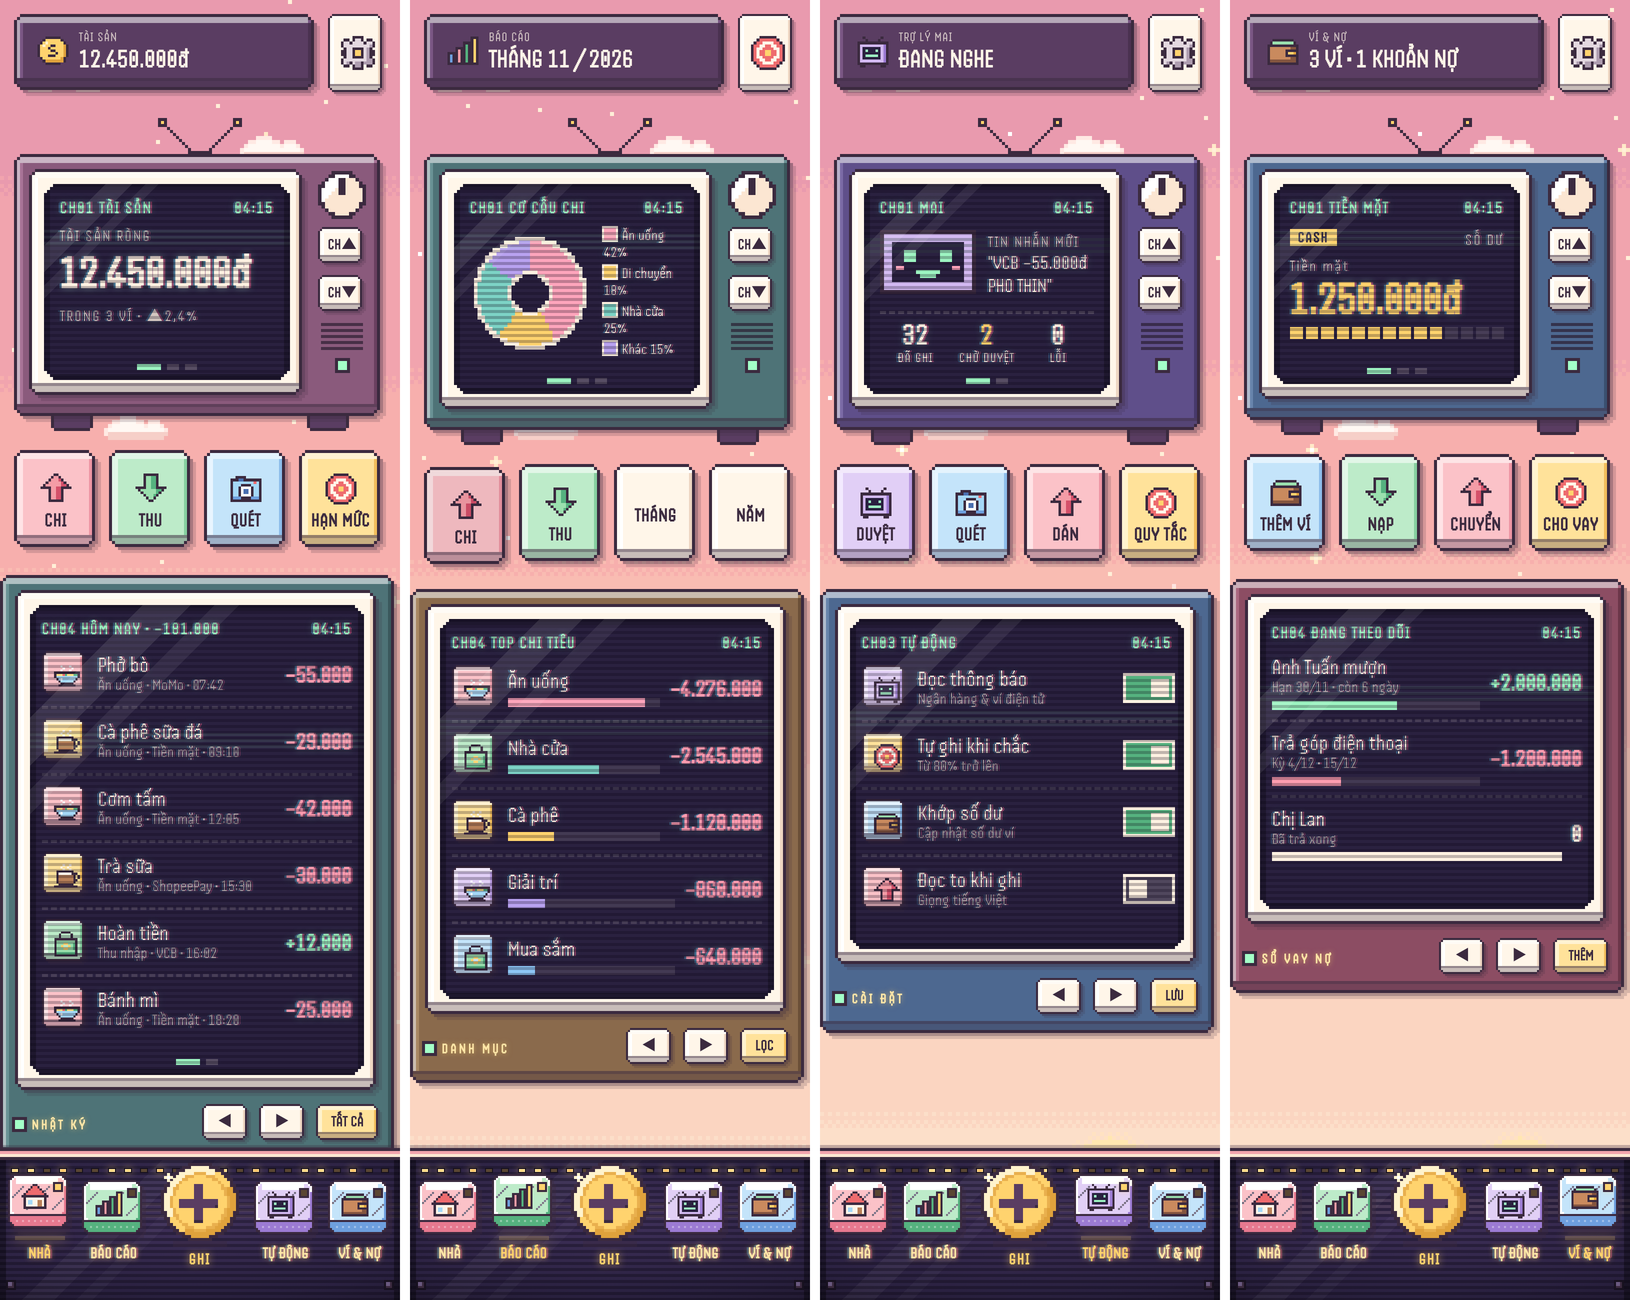
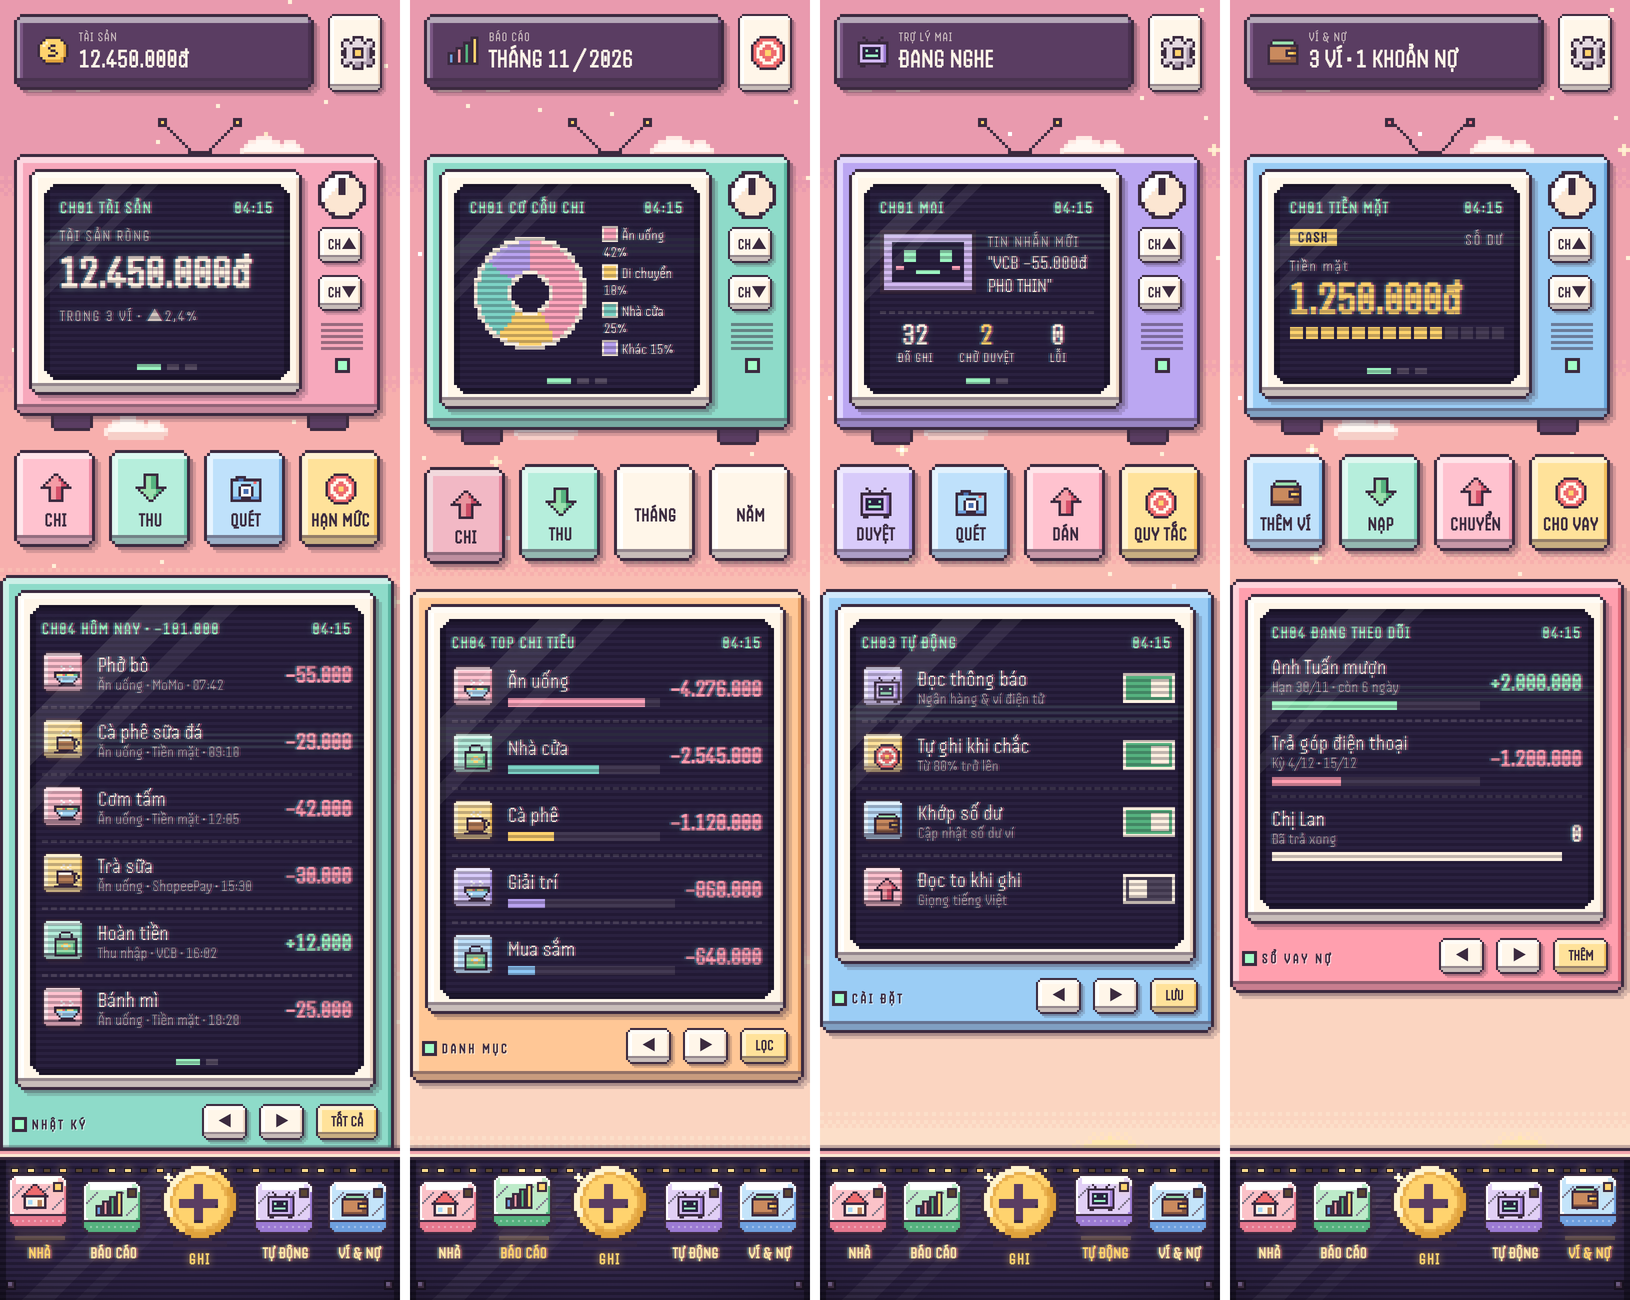
Pixel UI mockup: back to fresh pastel TV bodies, rebalanced to matching lightness
Claude-Session: https://claude.ai/code/session_01FJNvN5z83tJBi6FoMbuiCK

Changed region(s): [[0.0, 0.4308, 1.0, 0.8923], [0.0, 0.1231, 0.7362, 0.3385], [0.7669, 0.0923, 1.0, 0.3385]]

diff --git a/design/pixel-ui/mock.html b/design/pixel-ui/mock.html
@@ -53,7 +53,7 @@ body{font-family:Handjet,system-ui,sans-serif;color:var(--ink);font-size:20px;wi
 
 /* ---------- TV pixel (vẽ mới) ---------- */
 .tv{position:relative;padding-top:36px}.tv.noant{padding-top:0}.tv.wide{margin:0 -14px}.tv.wide .cnt{padding:14px 12px}
-.ctrl{display:flex;align-items:center;gap:8px;margin-top:8px}.ctrl .mini{width:auto;padding:0 6px}.ctrl .brand{flex:1;font-weight:800;letter-spacing:.2em;font-size:14px;color:#FFE7A8;text-shadow:0 0 6px rgba(255,211,110,.6)}
+.ctrl{display:flex;align-items:center;gap:8px;margin-top:8px}.ctrl .mini{width:auto;padding:0 6px}.ctrl .brand{flex:1;font-weight:800;letter-spacing:.2em;font-size:14px;color:#3B2A3F;text-shadow:1px 1px 0 rgba(255,255,255,.6)}
 .tvlist .it{display:flex;align-items:center;gap:10px;padding:9px 0;border-bottom:3px dashed rgba(255,242,226,.14)}.tvlist .it:last-child{border:0}.tvlist .tile{width:46px;height:46px}.tvlist .tile .ico.sm{width:30px;height:30px}.tvlist .t{flex:1;line-height:1.1;font-size:22px}.tvlist .t small{display:block;font-size:16px;opacity:.65}.tvlist .m{font-weight:800;font-size:24px}
 .it.new{animation:slidein .5s steps(5) both}@keyframes slidein{from{transform:translateX(40px);opacity:0}}
 .ant{position:absolute;left:50%;top:0;width:120px;height:42px;transform:translateX(-50%);image-rendering:pixelated}
@@ -92,7 +92,7 @@ body{font-family:Handjet,system-ui,sans-serif;color:var(--ink);font-size:20px;wi
 .side{display:flex;flex-direction:column;align-items:center;gap:8px;padding-top:2px}
 .knob{width:48px;height:48px;image-rendering:pixelated;animation:knob 6s steps(1) infinite}
 .mini{width:48px;text-align:center;font-weight:800;font-size:15px;padding:0;line-height:16px}
-.grille{width:42px;height:30px;background:repeating-linear-gradient(180deg,#2A1D30 0 3px,transparent 3px 6px);opacity:.7}
+.grille{width:42px;height:30px;background:repeating-linear-gradient(180deg,#3B2A3F 0 3px,transparent 3px 6px);opacity:.5}
 .led{width:9px;height:9px;background:#7DFFB0;box-shadow:0 0 0 3px #3B2A3F;animation:led 2.4s steps(4) infinite}
 .feet{display:flex;justify-content:space-between;padding:0 40px;margin-top:-6px}.feet span{width:36px;height:12px;background:#5A3D62;box-shadow:0 3px 0 #3B2A3F,3px 0 0 #3B2A3F,-3px 0 0 #3B2A3F}
 @keyframes blink{50%{opacity:0}}
@@ -233,19 +233,20 @@ const FR = {
   paper:{b:"#FFF6E9",h:"#FFFFFF",s:"#EED6C2"},
   hud:{b:"#5A3D62",h:"#7A5784",s:"#4A3150"},
   plum:{b:"#6A4872",h:"#8A6694",s:"#523858"},
-  pink:{b:"#FBC2C8",h:"#FFE3E6",s:"#EE96A4"},
-  mint:{b:"#BDEBC9",h:"#E2F8E8",s:"#86CFA0"},
-  sky:{b:"#C4E4FA",h:"#E8F5FF",s:"#8DBDEB"},
+  pink:{b:"#FFC2CF",h:"#FFE6EC",s:"#F08FA6"},
+  mint:{b:"#B6EEDC",h:"#E2FBF3",s:"#77CDB2"},
+  sky:{b:"#BFE1FB",h:"#E6F4FF",s:"#84BCEB"},
   tv:{b:"#F2A3AC",h:"#FBC9CE",s:"#D97F8D"},
-  gold:{b:"#FFE29A",h:"#FFF3CC",s:"#F2BE5C"},
-  lilac:{b:"#E1CFF6",h:"#F3EAFF",s:"#B89AE0"},
+  gold:{b:"#FFE29A",h:"#FFF4CF",s:"#F2BE5C"},
+  lilac:{b:"#D8CBFA",h:"#F1EBFF",s:"#A991E6"},
   // thân TV tông tối "đêm arcade", hợp dock CRT
-  tvRose:{b:"#8A5A7C",h:"#A87497",s:"#6A4060"},
-  tvTeal:{b:"#4E7377",h:"#6A9295",s:"#3A585C"},
-  tvWood:{b:"#8A6A4C",h:"#A88763",s:"#6A4F37"},
-  tvIndigo:{b:"#5F4F8A",h:"#7B6BA6",s:"#47396B"},
-  tvBlue:{b:"#4D6890",h:"#6884AC",s:"#3A5070"},
-  tvWine:{b:"#8C4D63",h:"#AA6880",s:"#6B3649"},
+  // thân TV pastel tươi, cùng độ sáng/độ đậm để hài hoà
+  tvRose:{b:"#F7A8BC",h:"#FFD4DF",s:"#DC7F98"},
+  tvTeal:{b:"#8EDBC9",h:"#C6F2E7",s:"#5DB7A3"},
+  tvWood:{b:"#FFC796",h:"#FFE5C9",s:"#E69F66"},
+  tvIndigo:{b:"#BBA7F2",h:"#E0D5FF",s:"#927BD6"},
+  tvBlue:{b:"#9BCDF5",h:"#D0E9FF",s:"#6AA6DB"},
+  tvWine:{b:"#FF9FAE",h:"#FFD0D8",s:"#E3707F"},
 };
 function centerGrid(g){const H=g.length,W=Math.max(...g.map(r=>r.length));let x0=W,x1=-1,y0=H,y1=-1;
   g.forEach((r,y)=>[...r].forEach((c,x)=>{if(c!=="."&&c!==" "){x0=Math.min(x0,x);x1=Math.max(x1,x);y0=Math.min(y0,y);y1=Math.max(y1,y)}}));
